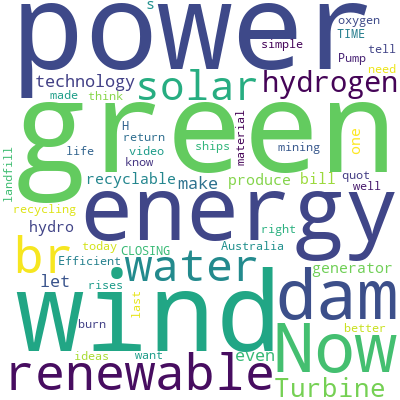
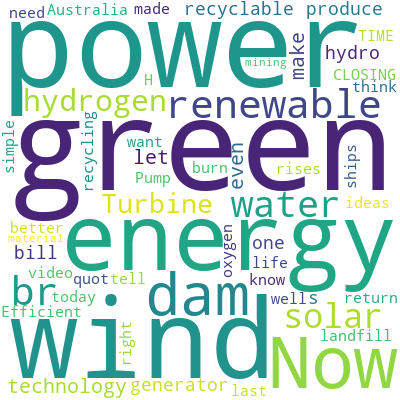
Modified requirements.txt

diff --git a/tataPowerHackathon/app.py b/tataPowerHackathon/app.py
@@ -9,13 +9,13 @@ import pandas as pd
 import numpy as np
 import json
 import pickle
-# from wordcloud import WordCloud
+from wordcloud import WordCloud
 import matplotlib.pyplot as plt
 import os
 import googleapiclient.discovery
 import requests
 app = Flask(__name__)
-API_KEY = "AIzaSyBlH7Gxfh4HivHborRzImVSwzUSdUxmnEg"
+API_KEY = "AIzaSyCytkHMeWnLsob0ERcgg9VKrKZFvylmpL0"
 base_url = "https://www.googleapis.com/youtube/v3/"
 youtube = googleapiclient.discovery.build("youtube", "v3", developerKey=API_KEY)
 
@@ -198,17 +198,17 @@ def topic(topic_id):
 
 
 def gen_word_cloud(key,data):
-    # obj=data[key]
-    # comments=""
-    # if "items" in obj.keys():
-    #     for item in obj["items"]:
-    #         comments+=((item['snippet']['topLevelComment']['snippet']['textDisplay']))
-    # wordcloud = WordCloud(width = 400, height = 400, 
-    #             background_color ='white', 
-                # stopwords = None, 
-    #             min_font_size = 10).generate(comments)
-    # image_path = "static/wordcloud.png"
-    # wordcloud.to_file(image_path)
+    obj=data[key]
+    comments=""
+    if "items" in obj.keys():
+        for item in obj["items"]:
+            comments+=((item['snippet']['topLevelComment']['snippet']['textDisplay']))
+    wordcloud = WordCloud(width = 400, height = 400, 
+                background_color ='white', 
+                stopwords = None, 
+                min_font_size = 10).generate(comments)
+    image_path = "static/wordcloud.png"
+    wordcloud.to_file(image_path)
     pass
     
     
